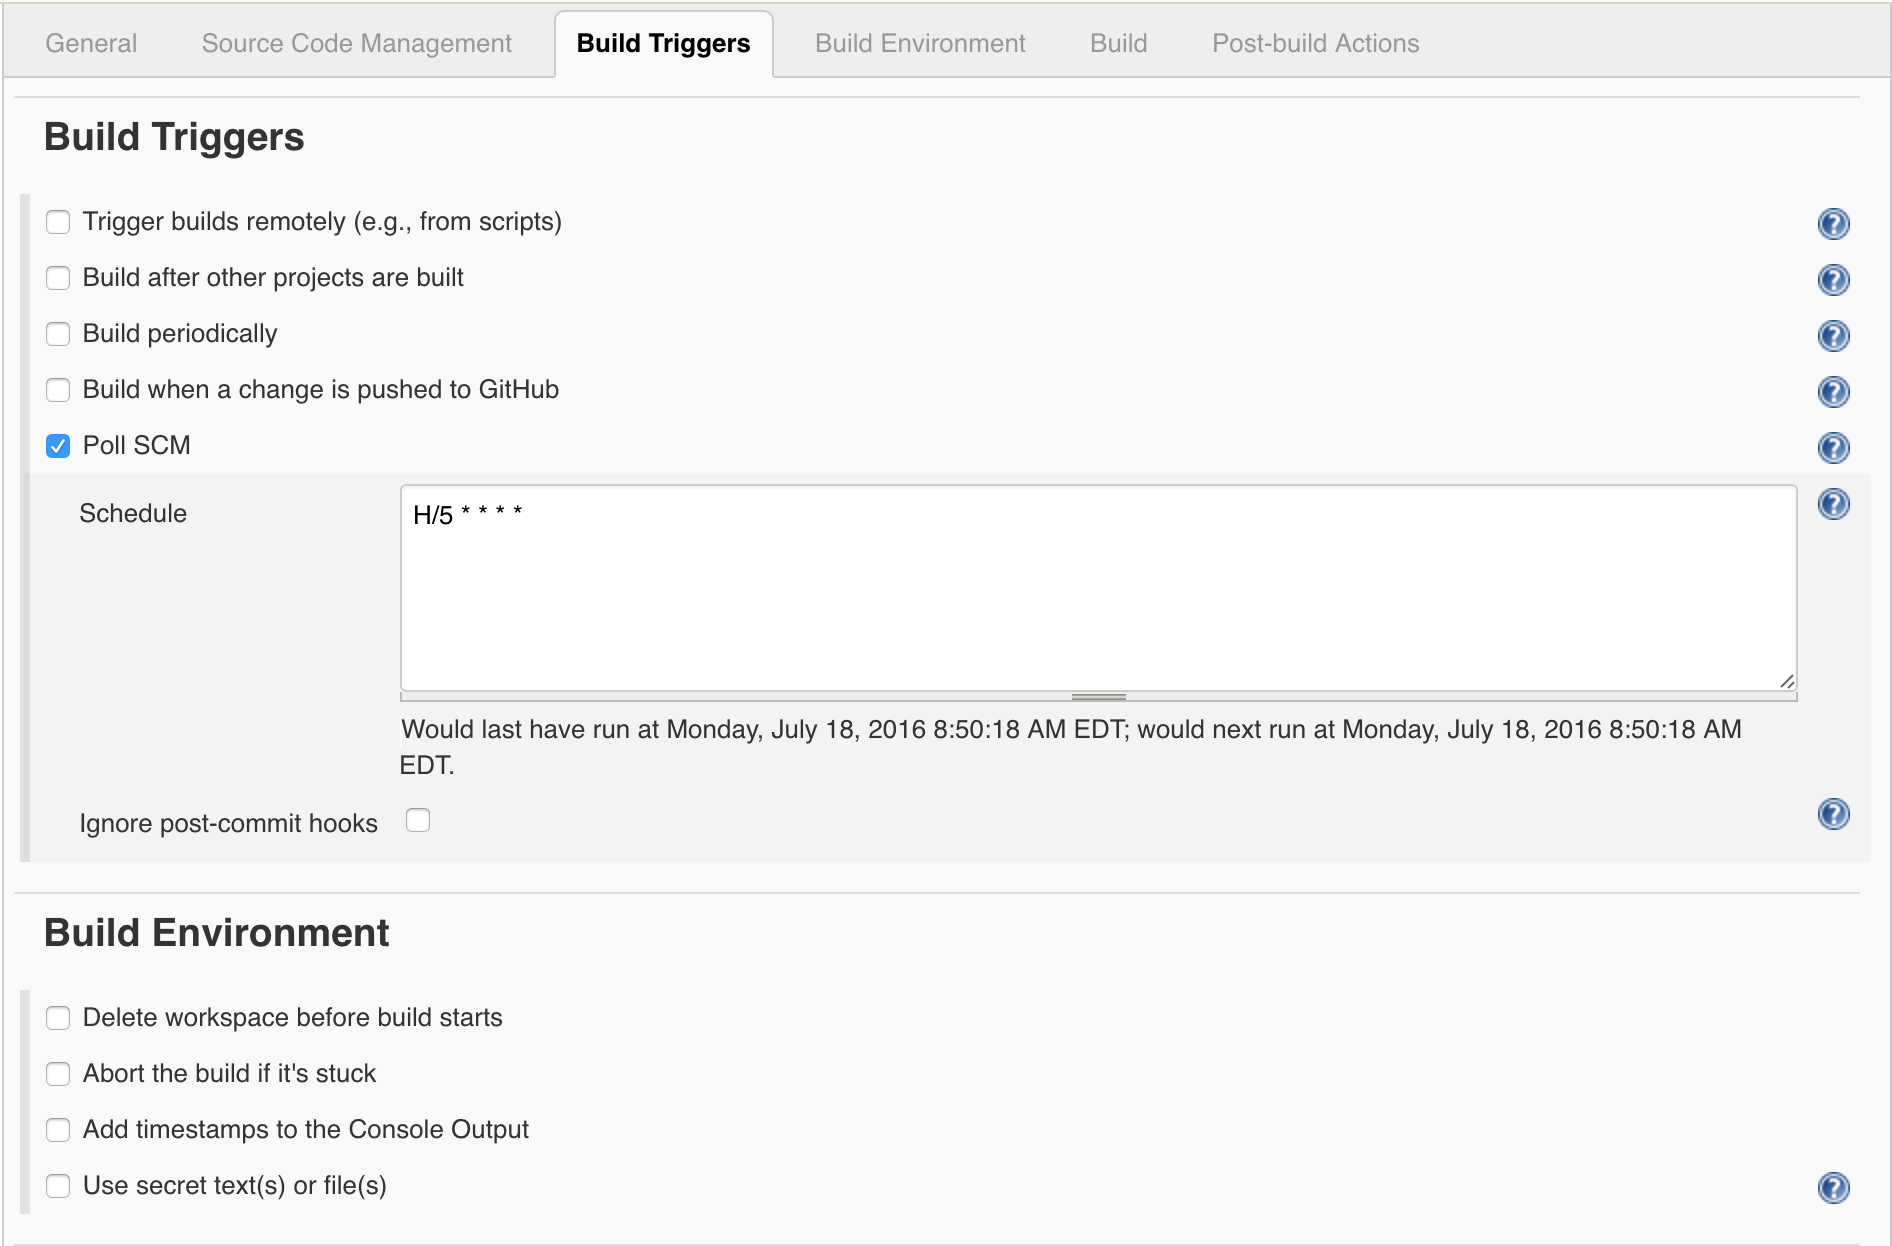
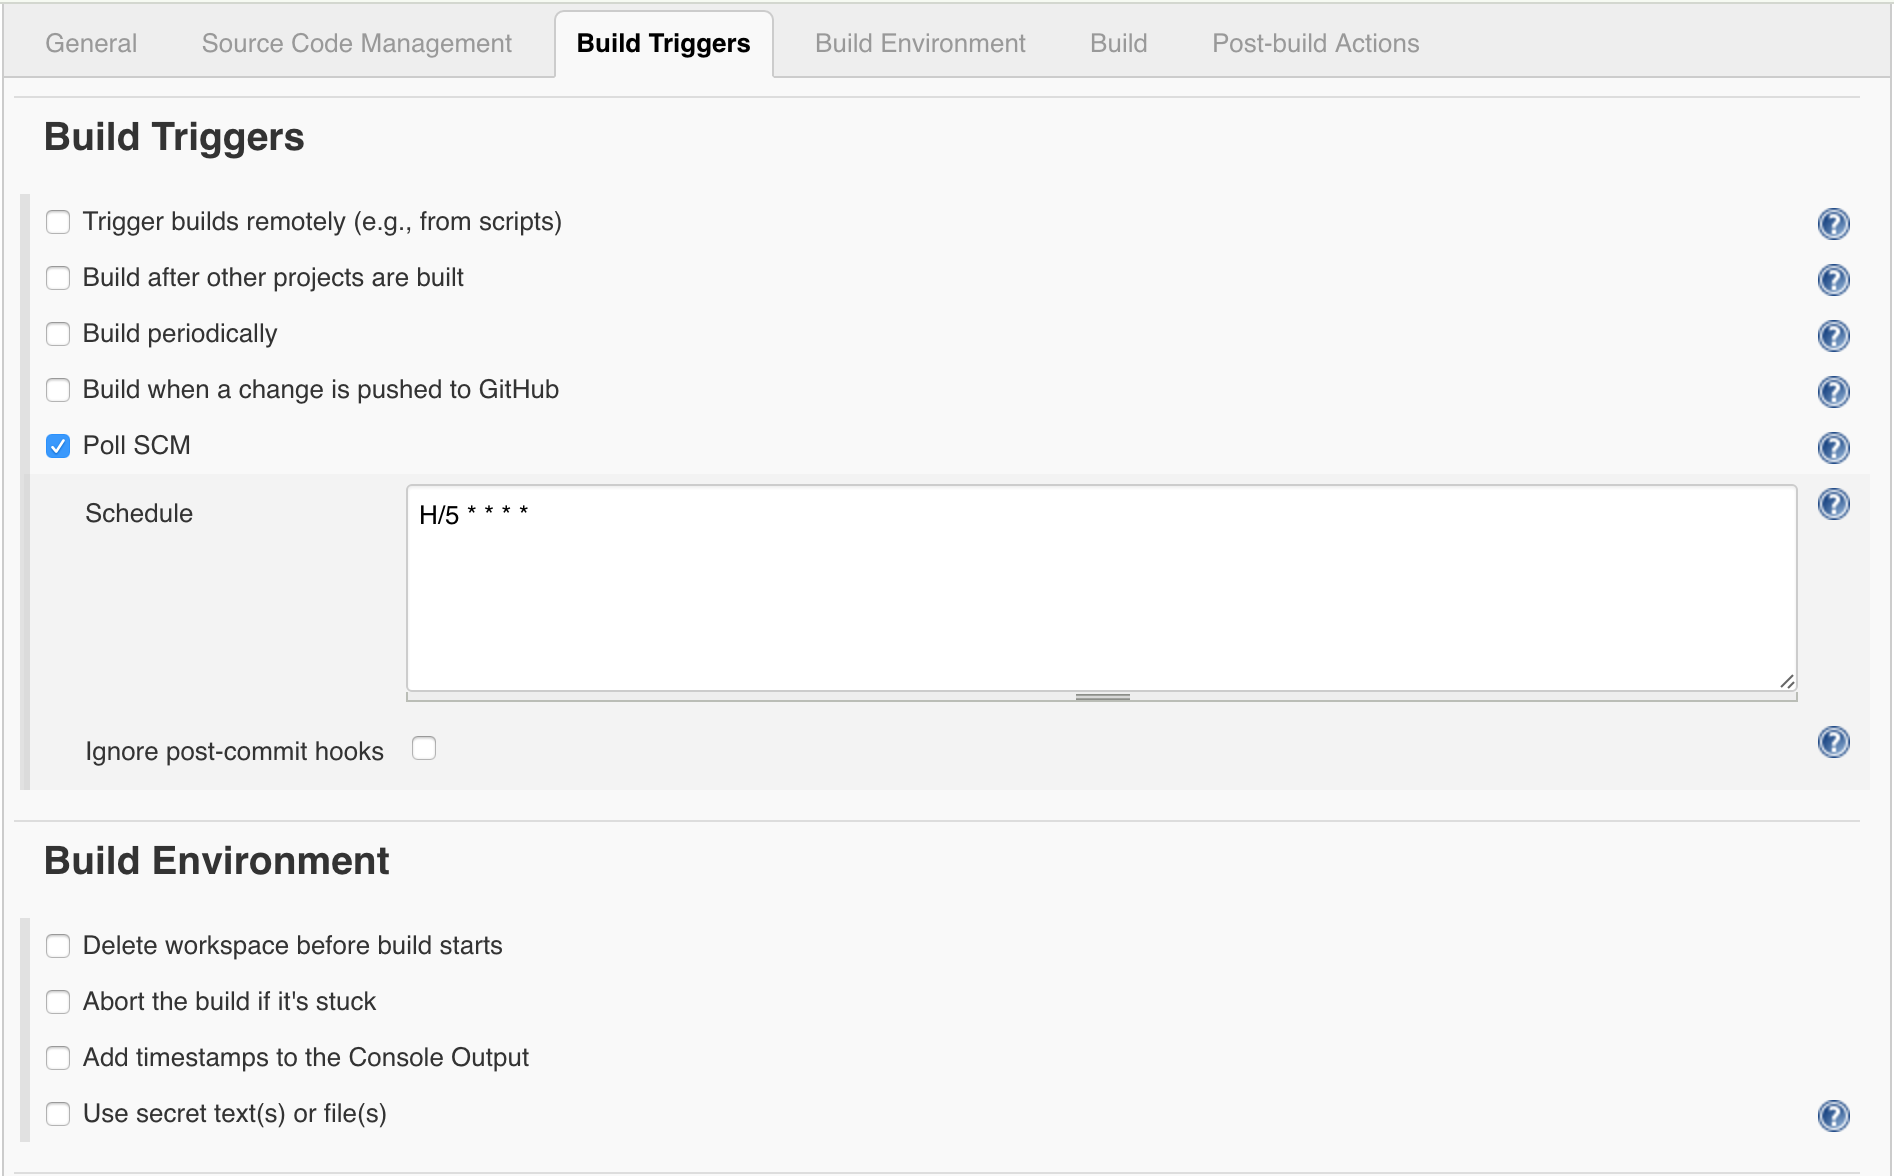
[B002] - update jenkins by step post and add images

diff --git a/source/_posts/2016-07-06-jenkins-by-step.md b/source/_posts/2016-07-06-jenkins-by-step.md
@@ -8,7 +8,7 @@ published: true
 ---
 
 ## Jenkins Introduction
-Jenkins是一款开源的跨平台的可扩展的持续集成(Continuous Integration)工具。作为目前使用最广泛，用户量最大的CI工具，无论是在GUI操作上，插件生态系统管理，稳定性、可靠性、功能性以及扩展性等方面都表现得较为出色，而且简单易学，入门上手快，当然Jenkins的优势还有很多，之前的项目上都一直在使用Jenkins，对于大多项目来说是完全满足条件的。
+Jenkins是一款开源的跨平台的可扩展的持续集成(Continuous Integration)工具。作为目前使用最广泛，用户量最大的CI工具，无论是在GUI操作上，插件生态系统管理，稳定性、可靠性、功能性以及扩展性等方面都表现得较为出色，而且简单易学，入门上手快，当然Jenkins的优势还有很多，之前的项目上都一直在使用Jenkins，对于大多项目来说是完全满足条件的。这里以Jenkins 2.x为例演示如何安装、配置和使用Jenkins。
 下图摘自官网，展示了持续交付场景下应用示例一般流程。
 ![](/assets/jenkins-by-step/pipeline_flow.png)
 
@@ -100,7 +100,7 @@ sudo dpkg -i jenkins_2.7.1_all.deb
 对于Mac OS和Windows，直接下载对应安装包根据提示安装即可：[Mac OS安装包](https://jenkins.io/content/thank-you-downloading-os-x-installer/#stable)、[Windows安装包](https://jenkins.io/content/thank-you-downloading-windows-installer/#stable)。
 
 ## Jenkins Setup
-当安装完Jenkins 2.13后，访问`http://localhost:8080`默认会进入到登录页面。输入默认用户名`admin`和密码`admin`。
+当安装完Jenkins 2.x后，访问`http://localhost:8080`默认会进入到登录页面。输入默认用户名`admin`和密码`admin`。
 ![](/assets/jenkins-by-step/login.png)
 
 登录成功后，Jenkins首先会提示安装推荐插件或自选插件，直接点击`Install suggested plugins`安装默认推荐的插件即可，当然随后也可以在Plugin管理中再选择安装需要的插件。
@@ -119,34 +119,41 @@ Jenkins Job是很重要的概念，定义了在什么样的情况下执行什么
 然后在`Enter an item name`下输入Job的名称，比如：“melon-build”，并选择`Freestyle project`，最后点击OK保存。
 ![](/assets/jenkins-by-step/new_job.png)
 
-#### Source Code Management
-可以指定下载源代码的仓库路径，目前Git是最为流行的VCS，指定Repositories URL，这里以Github托管的项目为例，拉取的Branch为`*/master`。这里的项目仓库为公开仓库，因此直接用HTTP方式即可，如果是私有项目需要添加授权信息。
+#### Source Code Management 源代码管理
+可以指定下载源代码的仓库路径，目前Git是最为流行的VCS，指定Repositories URL，这里以Github托管的项目为例，拉取的Branch为`*/master`。这里的项目仓库为公开仓库，因此直接用HTTP方式即可，如果是私有项目需要添加授权信息。另外特别注意，需要确保Server安装了Git，否则在pull代码时会因找不到命令而失败。
 ![](/assets/jenkins-by-step/job_source_code.png)
 
-#### 添加SCM
+#### Build Triggers 构建触发器
+构建触发条件Jenkins提供了5种方式，根据项目需要可以设置不同的触发方式，通常采用`Poll SCM`方式，通过设置Schedule来控制触发条件，Schedule采用的是基于**Cron**语法，但Jenkins对其进行了略微调整，比如设置`H/5 * * * *`表示每5分钟检查一次代码仓库是否有新的code changes，如果有就pull并执行tasks。可以通过点击问号![](/assets/jenkins-by-step/help.png)按钮来获得更多帮助信息，或参考[Cron Wiki](https://en.wikipedia.org/wiki/Cron)和[Quartz 2.x Docs](http://www.quartz-scheduler.org/documentation/quartz-2.x/tutorials/crontrigger.html)。
+![](/assets/jenkins-by-step/job_trigger.png)
 
-#### 添加Gradle Tasks
+#### Build 构建和任务
+假设项目构建工具采用的是目前相对比较流行的开源自动化构建工具[Gradle](https://gradle.org/)，选择`Use Gradle Wrapper`，添加项目执行的Tasks即可。需要注意的是，如果build依赖特定版本的运行环境，请确保在build机器上安装了对应版本的运行环境，如Java 8等。
+![](/assets/jenkins-by-step/job_build.png)
+
+当然，除了Gradle外还可以选择Maven、Ant等方式。当然，如果有一些复杂的自动化工作也可以选择Shell脚本完成，根据项目需要定义。
+![](/assets/jenkins-by-step/add_build_step.png)
+
+#### Post-build Actions 构建后置行为
+Post-build Actions定义了在完成当前Job的所有Tasks后接下来需要执行的一系列操作的关系。比如设置在正常完成当前Job后，进一步获取测试报告和Artifacts，发送Email通知，或者并行/串行地触发后续的一个或多个Jobs。执行顺序的关系可以被配置在Pipeline View中以可视化的方式展现出来。
+![](/assets/jenkins-by-step/job_post_action.png)
+
+Post-build actions有很多种类型和触发条件，通过下拉列表可以选择，如下图：
+![](/assets/jenkins-by-step/add_post_action.png)
+
+其中`Build other projects`表示将自动触发后续Job，`Build other projects(manual step)`表示定义了后续Job，但需要手动点击按钮触发，通常针对部署到High Environments的Job。另外还有一个`Trigger parameterized build on other projects`选项定义了同时触发后续的多个Jobs，比如在build完成后同时触发Integration Test、Acceptance Test以及Sonar等。
+
+至此，针对Job的设置完成，可以点击Save保存了。
 
 #### Report Code Coverage
 
 #### Checkstyle
 
 
-#### Post jobs
-
-
-#### Manuall
-
-
 #### Deployment
 
 
-#### 自定义脚本
-
-
 #### Node Slave  Tags
-
-
 
 
 ## Jenkins Pipeline
